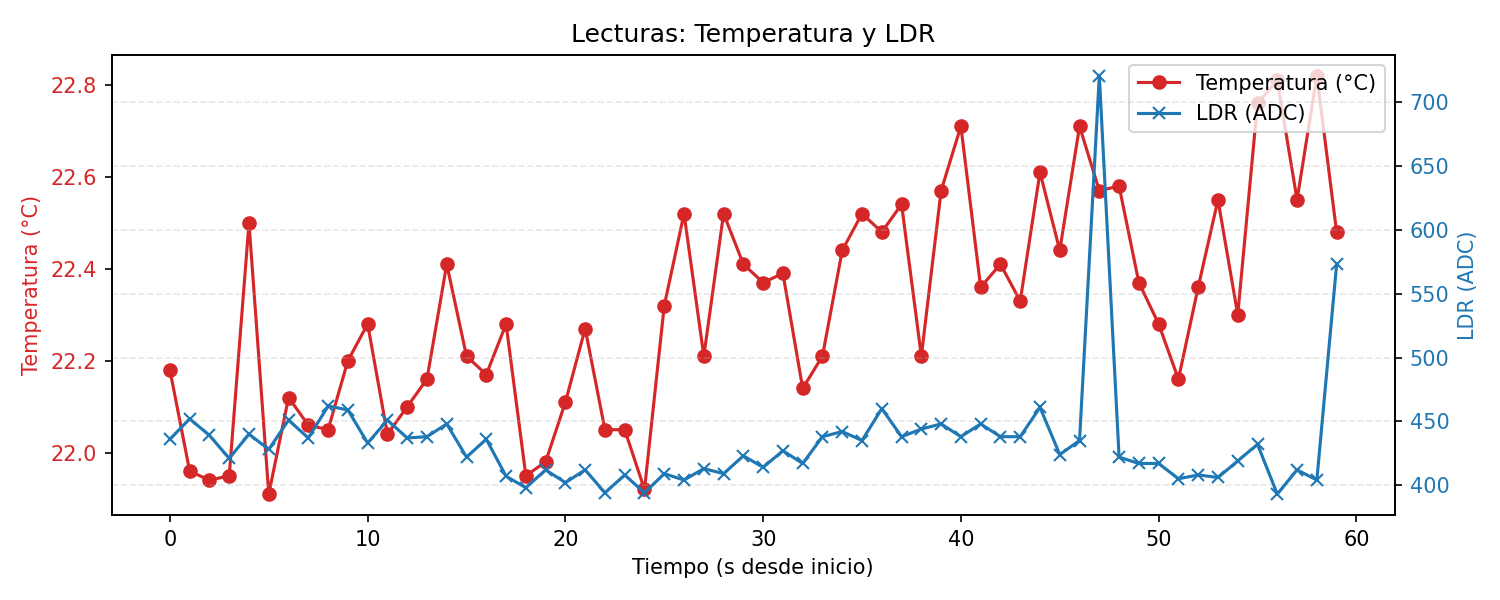
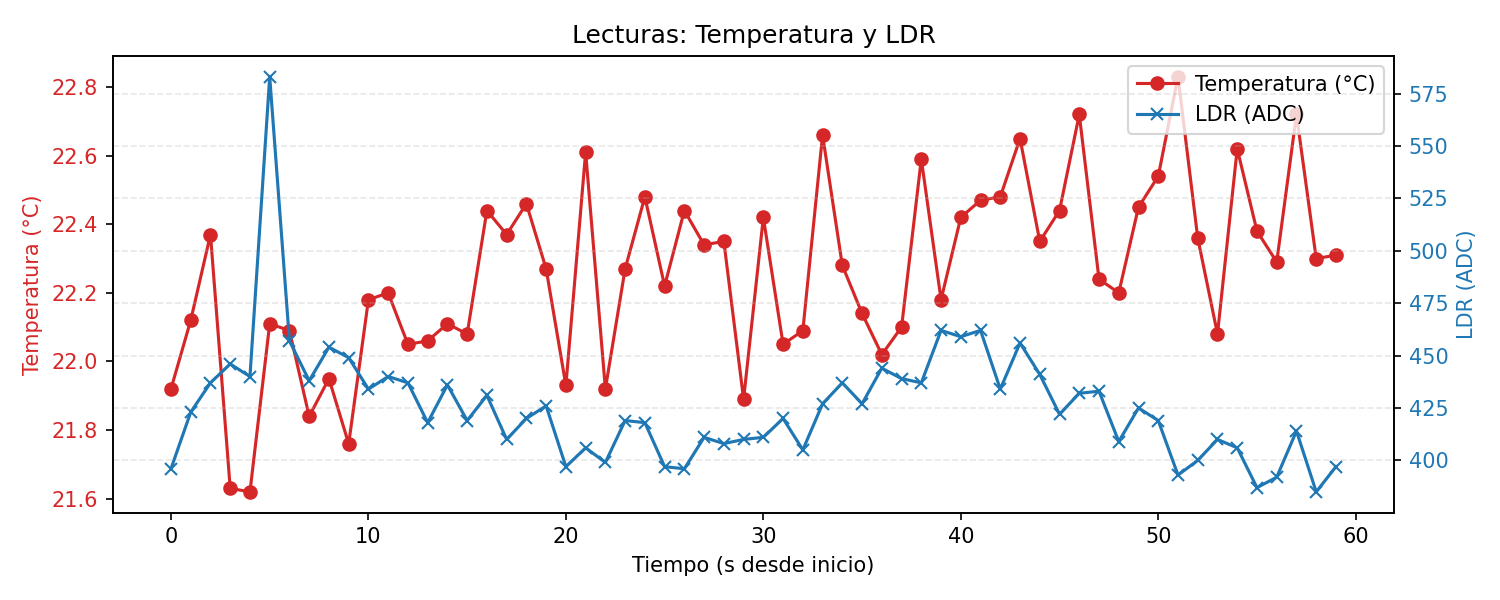
Se incluyen las mejoras correspondientes al programa v1.0.0 así como los resultados actualizados

diff --git a/F04/run_acquisition_v1.1.0.py b/F04/run_acquisition_v1.1.0.py
@@ -4,27 +4,16 @@
 run_acquisition.py
 Proyecto de ejemplo: adquisición de lecturas de temperatura y LDR durante 1 minuto,
 guardado en CSV y generación de una gráfica.
-Autor: (Tu nombre)
-Versión: 1.0.1
+Autor: Jesús Osvaldo Yáñez Mancilla
+Versión: 1.1.0
 
-Cambios en v1.0.1:
-- Corregido bug: uso incorrecto de `random.sin(...)`. La función trigonométrica
-  pertenece al módulo `math`, no a `random`. Se importó `math` y se reemplazó
-  `random.sin` por `math.sin`.
-- Actualizado docstring y metadata de versión.
-- Pequeña nota de registro: este cambio evita el error
-  "module 'random' has no attribute 'sin'".
-
-Uso:
-    # Modo simulación (no requiere hardware)
-    python src/run_acquisition.py --mode sim
-
-    # Modo serial (leer desde puerto serie, requiere sketch en Wokwi o Arduino)
-    python src/run_acquisition.py --mode serial --port COM3 --baud 115200
+Cambios en v1.1.0:
+- Corrección en save_environment: uso de matplotlib.__version__ en lugar de plt.__version__.
+- Implementación de Mejora A: filtrado por media móvil y calibración con offset inicial.
+- CSV extendido con columnas crudas y filtradas.
 """
 
 import argparse
-import csv
 import json
 import os
 import sys
@@ -38,6 +27,7 @@ import tempfile
 # Dependencias opcionales para graficar
 try:
     import matplotlib.pyplot as plt
+    import matplotlib
     import numpy as np
 except Exception:
     plt = None
@@ -54,20 +44,12 @@ RESULTS_DIR = "results"
 # Utilidades
 # -------------------------
 def iso_now_utc():
-    """Devuelve timestamp ISO 8601 en UTC (ej: 2026-03-24T09:00:00Z)."""
     return datetime.now(timezone.utc).strftime("%Y-%m-%dT%H:%M:%SZ")
 
-
 def ensure_results_dir():
-    """Crea la carpeta results si no existe."""
     os.makedirs(RESULTS_DIR, exist_ok=True)
 
-
 def safe_write_atomic(path, text, mode="w", encoding="utf-8"):
-    """
-    Escribe de forma atómica: escribe en archivo temporal y renombra.
-    Evita archivos CSV corruptos si el proceso se interrumpe.
-    """
     dirpath = os.path.dirname(path) or "."
     fd, tmp_path = tempfile.mkstemp(dir=dirpath, prefix=".tmp_")
     try:
@@ -75,68 +57,40 @@ def safe_write_atomic(path, text, mode="w", encoding="utf-8"):
             f.write(text)
         os.replace(tmp_path, path)
     except Exception:
-        # Si falla, intentar eliminar temporal
         try:
             os.remove(tmp_path)
         except Exception:
             pass
         raise
 
-
 # -------------------------
 # Simulación y lectura
 # -------------------------
 def simulate_reading(t_seconds):
-    """
-    Genera una lectura simulada de temperatura y LDR.
-    t_seconds: tiempo transcurrido desde inicio (s) para modelar tendencias.
-    Retorna (temp_c, ldr_raw)
-
-    Nota sobre el bug corregido:
-    - En versiones anteriores se usó `random.sin(...)`, lo cual provocaba:
-      "module 'random' has no attribute 'sin'".
-    - La función trigonométrica correcta es `math.sin(...)`. Aquí se usa `math`.
-    """
-    # Temperatura base con ligera deriva y ruido
-    temp_base = 22.0 + 0.01 * (t_seconds / 1.0)  # deriva muy lenta
-    temp_noise = random.gauss(0, 0.2)            # ruido gaussiano
+    temp_base = 22.0 + 0.01 * (t_seconds / 1.0)
+    temp_noise = random.gauss(0, 0.2)
     temp = temp_base + temp_noise
 
-    # LDR simulado: valor ADC 0-1023 con variaciones y picos ocasionales
-    # Usar math.sin en lugar de random.sin (corrección v1.0.1)
     ldr_base = 400 + 50 * (0.5 * (1 + math.sin(t_seconds / 5.0)))
     ldr_noise = random.gauss(0, 10)
-    # ocasional pico de luz
     if random.random() < 0.02:
         ldr_noise += random.uniform(100, 300)
     ldr = int(max(0, min(1023, ldr_base + ldr_noise)))
 
     return round(temp, 2), ldr
 
-
 def parse_serial_line(line):
-    """
-    Parsea una línea proveniente del serial.
-    Se espera formato: temp,ldr  (ej: "23.5,512")
-    Devuelve (temp_float, ldr_int) o lanza ValueError.
-    """
     parts = line.strip().split(",")
     if len(parts) < 2:
-        raise ValueError("Formato inválido, se esperaban dos valores separados por coma")
+        raise ValueError("Formato inválido")
     temp = float(parts[0])
     ldr = int(float(parts[1]))
     return round(temp, 2), ldr
-
 
 # -------------------------
 # Adquisición
 # -------------------------
 def acquire_data(mode="sim", port=None, baud=115200, duration_seconds=DEFAULT_DURATION, sample_interval_s=DEFAULT_INTERVAL):
-    """
-    Ejecuta la adquisición de datos.
-    mode: "sim" o "serial"
-    Retorna lista de tuplas: (timestamp_iso, temp, ldr)
-    """
     readings = []
     start_time = time.time()
     elapsed = 0.0
@@ -187,16 +141,10 @@ def acquire_data(mode="sim", port=None, baud=115200, duration_seconds=DEFAULT_DU
     print(f"[INFO] Adquisición finalizada: muestras={sample_count}, errores={errors}")
     return readings
 
-
 # -------------------------
 # Procesamiento y estadísticas
 # -------------------------
 def compute_basic_stats(values):
-    """
-    Calcula estadísticas básicas (mean, min, max, std) ignorando NaN.
-    values: lista de números (puede contener float('nan')).
-    Retorna diccionario con keys: mean, min, max, std, count
-    """
     clean = [v for v in values if isinstance(v, (int, float)) and not (isinstance(v, float) and (v != v))]
     if not clean:
         return {"mean": None, "min": None, "max": None, "std": None, "count": 0}
@@ -208,31 +156,36 @@ def compute_basic_stats(values):
         "count": len(clean)
     }
 
+def moving_average_filter(values, window_size=5):
+    filt = []
+    for i in range(len(values)):
+        window = values[max(0, i - window_size + 1): i + 1]
+        clean = [v for v in window if isinstance(v, (int, float)) and not (isinstance(v, float) and (v != v))]
+        if clean:
+            filt.append(round(statistics.mean(clean), 3))
+        else:
+            filt.append(float("nan"))
+    return filt
 
 # -------------------------
 # Guardado CSV y metadata
 # -------------------------
-def save_csv(readings, csv_path):
-    """
-    Guarda readings en CSV con encabezado.
-    readings: lista de tuplas (timestamp_iso, temp, ldr)
-    Implementa escritura atómica.
-    """
-    header = ["timestamp", "temp_raw", "ldr_raw"]
+def save_csv(readings, csv_path, temps_filt=None, ldrs_filt=None):
+    header = ["timestamp", "temp_raw", "ldr_raw", "temp_filt", "ldr_filt"]
     lines = [",".join(header) + "\n"]
-    for ts, temp, ldr in readings:
+
+    for i, (ts, temp, ldr) in enumerate(readings):
         temp_str = "" if (isinstance(temp, float) and temp != temp) else str(temp)
         ldr_str = "" if ldr == -1 else str(ldr)
-        lines.append(f"{ts},{temp_str},{ldr_str}\n")
+        temp_filt_str = str(temps_filt[i]) if temps_filt else ""
+        ldr_filt_str = str(ldrs_filt[i]) if ldrs_filt else ""
+        lines.append(f"{ts},{temp_str},{ldr_str},{temp_filt_str},{ldr_filt_str}\n")
+
     text = "".join(lines)
     safe_write_atomic(csv_path, text)
     print(f"[INFO] CSV guardado en {csv_path}")
 
-
 def save_metadata(config, stats_temp, stats_ldr, metadata_path):
-    """
-    Guarda metadata en JSON (config + stats).
-    """
     payload = {
         "timestamp": iso_now_utc(),
         "config": config,
@@ -244,16 +197,12 @@ def save_metadata(config, stats_temp, stats_ldr, metadata_path):
     safe_write_atomic(metadata_path, json.dumps(payload, indent=2))
     print(f"[INFO] Metadata guardada en {metadata_path}")
 
-
 def save_environment(env_path):
-    """
-    Guarda información básica del entorno en results/environment.txt
-    """
     try:
         py_ver = sys.version.replace("\n", " ")
         libs = {}
         if plt is not None:
-            libs["matplotlib"] = plt.__version__
+            libs["matplotlib"] = matplotlib.__version__
         if np is not None:
             libs["numpy"] = np.__version__
         text = f"timestamp: {iso_now_utc()}\npython: {py_ver}\n"
@@ -264,18 +213,12 @@ def save_environment(env_path):
     except Exception as e:
         print(f"[WARN] No se pudo guardar environment.txt: {e}", file=sys.stderr)
 
-
 # -------------------------
 # Graficado
 # -------------------------
 def plot_readings(readings, plot_path):
-    """
-    Genera una gráfica con temperatura y LDR en función del tiempo.
-    Guarda en plot_path (PNG).
-    Requiere matplotlib; si no está disponible, imprime advertencia.
-    """
     if plt is None or np is None:
-        print("[WARN] matplotlib o numpy no disponibles; se omite la generación de la gráfica.")
+        print("[WARN] matplotlib o numpy no disponibles; se omite la gráfica.")
         return
 
     timestamps = [datetime.strptime(ts, "%Y-%m-%dT%H:%M:%SZ") for ts, _, _ in readings]
@@ -314,19 +257,17 @@ def plot_readings(readings, plot_path):
     except Exception as e:
         print(f"[WARN] No se pudo guardar la gráfica: {e}", file=sys.stderr)
 
-
 # -------------------------
 # CLI y flujo principal
 # -------------------------
 def build_argparser():
     p = argparse.ArgumentParser(description="Adquisición de temperatura y LDR (simulación o serial).")
-    p.add_argument("--mode", choices=["sim", "serial"], default="sim", help="Modo de adquisición: sim (simulación) o serial")
+    p.add_argument("--mode", choices=["sim", "serial"], default="sim", help="Modo de adquisición")
     p.add_argument("--port", type=str, default=None, help="Puerto serial (ej: COM3 o /dev/ttyUSB0)")
     p.add_argument("--baud", type=int, default=115200, help="Baudrate para serial")
     p.add_argument("--duration", type=int, default=DEFAULT_DURATION, help="Duración total en segundos")
     p.add_argument("--interval", type=float, default=DEFAULT_INTERVAL, help="Intervalo entre muestras en segundos")
     return p
-
 
 def main():
     parser = build_argparser()
@@ -341,7 +282,7 @@ def main():
         "duration_seconds": args.duration,
         "sample_interval_s": args.interval,
         "script": os.path.basename(__file__),
-        "version": "1.0.1"
+        "version": "1.1.0"
     }
 
     save_environment(os.path.join(RESULTS_DIR, "environment.txt"))
@@ -351,12 +292,24 @@ def main():
 
     temps = [t for _, t, _ in readings]
     ldrs = [l for _, _, l in readings]
-    stats_temp = compute_basic_stats(temps)
-    stats_ldr = compute_basic_stats(ldrs)
+
+    # Calibración con primeras N muestras
+    N = 5
+    offset_temp = statistics.mean(temps[:N])
+    offset_ldr = statistics.mean(ldrs[:N])
+    temps_cal = [round(t - offset_temp, 3) for t in temps]
+    ldrs_cal = [round(l - offset_ldr, 3) for l in ldrs]
+
+    # Filtrado
+    temps_filt = moving_average_filter(temps_cal, window_size=5)
+    ldrs_filt = moving_average_filter(ldrs_cal, window_size=5)
+
+    stats_temp = compute_basic_stats(temps_filt)
+    stats_ldr = compute_basic_stats(ldrs_filt)
 
     csv_path = os.path.join(RESULTS_DIR, "raw_readings.csv")
     metadata_path = os.path.join(RESULTS_DIR, "metadata.json")
-    save_csv(readings, csv_path)
+    save_csv(readings, csv_path, temps_filt=temps_filt, ldrs_filt=ldrs_filt)
     save_metadata(config, stats_temp, stats_ldr, metadata_path)
 
     plot_path = os.path.join(RESULTS_DIR, "plot.png")
@@ -368,7 +321,6 @@ def main():
     print("Estadísticas LDR:", stats_ldr)
     print(f"Archivos generados en: {RESULTS_DIR}/")
     print("----------------\n")
-
 
 if __name__ == "__main__":
     main()
